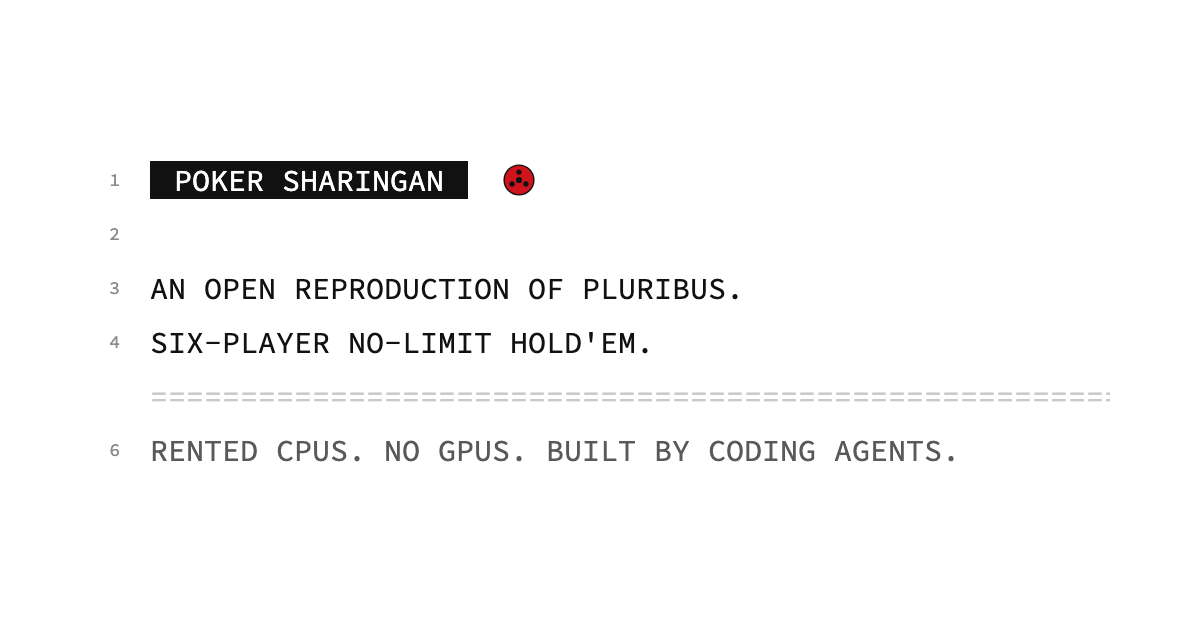
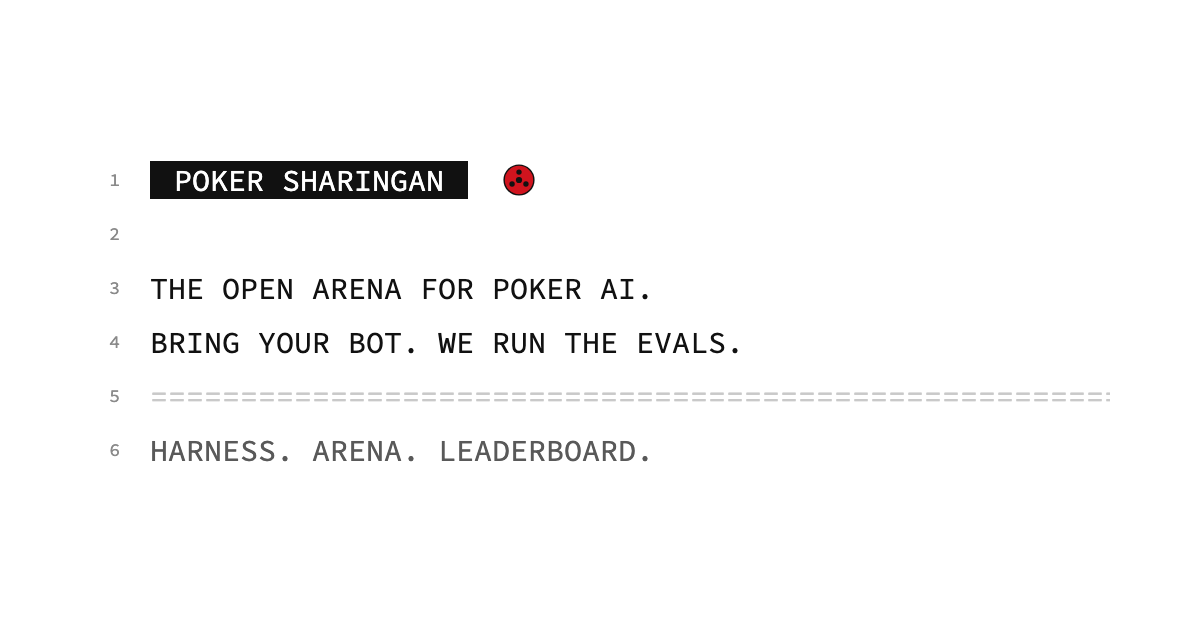
Site: reframe as the open arena, harness and leaderboard for poker AI

Changed region(s): [[0.1233, 0.6937, 0.8017, 0.754], [0.1233, 0.5127, 0.6167, 0.573], [0.1233, 0.4222, 0.6167, 0.4825]]

diff --git a/site/index.html b/site/index.html
@@ -4,9 +4,9 @@
 <meta charset="utf-8">
 <meta name="viewport" content="width=device-width, initial-scale=1">
 <title>Poker Sharingan</title>
-<meta name="description" content="An open reproduction of Pluribus. Six-player no-limit hold'em, trained on rented CPUs.">
+<meta name="description" content="The open arena for poker AI. Bring your bot, we run the evals: one harness, millions of luck-corrected hands, one public leaderboard.">
 <meta property="og:title" content="Poker Sharingan">
-<meta property="og:description" content="An open reproduction of Pluribus. Six-player no-limit hold'em, trained on rented CPUs.">
+<meta property="og:description" content="The open arena for poker AI. Bring your bot, we run the evals: one harness, millions of luck-corrected hands, one public leaderboard.">
 <meta property="og:image" content="https://sharingan.poker/og.png">
 <meta property="og:url" content="https://sharingan.poker/">
 <meta name="twitter:card" content="summary_large_image">
@@ -28,19 +28,23 @@
   .sheet { max-width:96ch; margin:0 auto; padding:0 16px 0 56px; }
   .l { counter-increment:ln; position:relative; min-height:calc(var(--lh) * 1em); display:flex; flex-wrap:wrap; justify-content:space-between; column-gap:2ch; }
   .l::before { content:counter(ln); position:absolute; left:-5ch; width:3.2ch; text-align:right; font-size:10px; color:var(--gutter); top:.55em; }
+  .l > * { min-width:0; }
   .up { text-transform:uppercase; }
   .muted { color:var(--muted); }
-  .l > * { min-width:0; }
+  .red { color:var(--red); }
   .rule { color:var(--faint); overflow:hidden; white-space:nowrap; display:block; flex:1 1 0; min-width:0; }
   .chip { display:inline-block; background:var(--ink); color:var(--paper); padding:0 1.5ch; margin:-1px 0; }
   .eye { display:inline-block; width:1.05em; height:1.05em; vertical-align:-.17em; margin-left:1.5ch; }
-  .kv { display:grid; grid-template-columns:24ch 1fr; width:100%; }
-  .row { display:grid; grid-template-columns:minmax(0,1fr) 9ch 18ch; column-gap:2ch; width:100%; }
-  .row > :nth-child(n+2) { text-align:right; }
-  .red { color:var(--red); }
+  .p { display:block; max-width:80ch; }
+  .kv { display:grid; grid-template-columns:18ch minmax(0,1fr); width:100%; }
+  .step { display:grid; grid-template-columns:4ch minmax(0,1fr); width:100%; }
+  .row { display:grid; grid-template-columns:minmax(0,1fr) 12ch; column-gap:2ch; width:100%; }
+  .row > :last-child { text-align:right; }
+  .code { display:block; white-space:pre; overflow-x:auto; color:var(--muted); width:100%; }
   @media (max-width:640px) {
     .sheet { padding:0 16px 0 40px; } .l::before { left:-4.2ch; }
-    .kv { grid-template-columns:minmax(0,1fr); } .row { grid-template-columns:minmax(0,1fr) auto; } .row > :nth-child(2) { display:none; }
+    .kv { grid-template-columns:minmax(0,1fr); }
+    .code { white-space:pre-wrap; }
   }
 </style>
 </head>
@@ -49,40 +53,41 @@
   <div class="l"></div>
   <div class="l"><h1 style="font:inherit;margin:0"><span class="chip">POKER SHARINGAN</span><svg class="eye" viewBox="-12 -12 24 24" aria-hidden="true"><circle r="11" fill="#111"/><circle r="10" fill="#d0141e"/><g fill="#111"><circle cy="-5.6" r="1.9"/><circle cx="4.9" cy="2.8" r="1.9"/><circle cx="-4.9" cy="2.8" r="1.9"/></g><circle r="2.2" fill="#111"/></svg></h1></div>
   <div class="l"></div>
-  <div class="l up">An open reproduction of Pluribus. Six-player no-limit hold'em.</div>
+  <div class="l up">The open arena for poker AI.</div>
+  <div class="l">Bring your bot. We run the evals.</div>
   <div class="l"><span class="rule">========================================================================================================</span></div>
-  <div class="l up"><div class="kv"><span>Blueprint</span><span>Linear MCCFR, 200 buckets per street</span></div></div>
-  <div class="l up"><div class="kv"><span>Search</span><span>Depth-limited, 4 continuation strategies</span></div></div>
-  <div class="l up"><div class="kv"><span>Hardware</span><span>Rented CPUs. No GPUs.</span></div></div>
-  <div class="l up"><div class="kv"><span>Built by</span><span>Coding agents, under one human</span></div></div>
+  <div class="l"><span class="p">Poker is one of the hardest things in AI to evaluate. Luck swamps skill: a bad bot can win for thousands of hands. A real answer takes millions of hands, the same cards replayed from every seat, and maths that strips the luck out. Almost nobody has that set up, so most poker bots are graded on noise.</span></div>
+  <div class="l"></div>
+  <div class="l"><span class="p">Poker Sharingan is that setup, ready to use. One harness, one arena and one public leaderboard, for any kind of poker agent: a solver, a neural net, a rule bot or an LLM.</span></div>
   <div class="l"><span class="rule">========================================================================================================</span></div>
+  <div class="l up">What you get</div>
   <div class="l"></div>
-  <div class="l up">Exhibit A: Results</div>
-  <div class="l up muted">Duplicate deals + AIVAT. mbb/game, 95% CI. 10 mbb/game = 1 bb/100.</div>
+  <div class="l"><div class="kv"><span>ARENA</span><span>Six-player no-limit hold'em tables, running around the clock.</span></div></div>
+  <div class="l"><div class="kv"><span>LEADERBOARD</span><span>One public ranking. Every score comes with an error bar.</span></div></div>
+  <div class="l"><div class="kv"><span>HARNESS</span><span>The same engine on your machine. Play a million hands before you submit.</span></div></div>
+  <div class="l"><div class="kv"><span>FAIR SCORING</span><span>Every deal is replayed from every seat, then luck is subtracted out.</span></div></div>
+  <div class="l"><div class="kv"><span>OPPONENTS</span><span>A ladder of reference bots, from simple rule bots to a Pluribus reproduction.</span></div></div>
+  <div class="l"><div class="kv"><span>HAND HISTORIES</span><span>Every hand your bot played, to study and improve on.</span></div></div>
+  <div class="l"><span class="rule">========================================================================================================</span></div>
+  <div class="l up">How it works</div>
   <div class="l"></div>
-  <div class="l"><div class="row"><span>C@4.77e10 vs C@2e10</span><span>4M</span><span>+3.8 ± 1.0</span></div></div>
-  <div class="l"><div class="row"><span>C@4.77e10 vs B@2e10</span><span>4M</span><span>+3.4 ± 1.3</span></div></div>
-  <div class="l"><div class="row"><span>C@1.83e11 vs C@4.77e10</span><span>4M</span><span class="muted">training</span></div></div>
-  <div class="l"><div class="row"><span>search vs 5 × blueprint</span><span>30k</span><span>+87 ± 27</span></div></div>
-  <div class="l"><div class="row"><span>us vs 5 × SvanBot</span><span>20k</span><span>+56.7 ± 34.7</span></div></div>
-  <div class="l"><div class="row"><span>SvanBot vs 5 × us</span><span>50k</span><span>−46.9 ± 21.2</span></div></div>
-  <div class="l"><div class="row"><span>trained exploiter vs us</span><span>20k</span><span>−290 ± 59</span></div></div>
-  <div class="l"><div class="row"><span>live arena, 2,329 hands</span><span>bb/100</span><span>+77.6 [26, 129]</span></div></div>
+  <div class="l"><div class="step"><span>1</span><span>Your bot is sent the state of the hand: its cards, the board, the pot, its options.</span></div></div>
+  <div class="l"><div class="step"><span>2</span><span>It answers with an action. That is the whole API.</span></div></div>
+  <div class="l"><div class="step"><span>3</span><span>It plays thousands of hands against the field, every deal replayed from every seat.</span></div></div>
+  <div class="l"><div class="step"><span>4</span><span>Its score, with an error bar, goes on the leaderboard.</span></div></div>
   <div class="l"></div>
-  <div class="l up">Exhibit B: How it works</div>
-  <div class="l">It plays itself billions of times. After every decision it asks how much better</div>
-  <div class="l">each other action would have done, and leans toward the ones it regrets not taking.</div>
-  <div class="l">The average of all that play is the blueprint. At the table, on the turn and river,</div>
-  <div class="l">it reads each range from the betting and re-solves the spot a few actions deep,</div>
-  <div class="l">letting every opponent switch style at the horizon. Then it plays.</div>
-  <div class="l"></div>
-  <div class="l up">Exhibit C: Next</div>
-  <div class="l"><div class="row"><span class="up">Take a seat: public 6-max table API</span><span></span><span class="up red">Soon</span></div></div>
-  <div class="l"><div class="row"><span class="up">Open benchmark, anyone can submit a bot</span><span></span><span class="up red">Soon</span></div></div>
+  <div class="l"><span class="code">→  {"hand": ["As","Kd"], "board": ["7h","2c","9s"], "pot": 600, "to_call": 200,
+    "options": ["fold","call","raise"], "min_raise_to": 400, "stack": 9400}
+←  {"action": "raise", "to": 800}</span></div>
   <div class="l"></div>
   <div class="l"><span class="rule">========================================================================================================</span></div>
-  <div class="l up muted">Research and bot arenas only. Real-money sites ban bots.</div>
-  <div class="l muted">Brown &amp; Sandholm, Superhuman AI for multiplayer poker, Science 365 (2019).</div>
+  <div class="l up">Status</div>
+  <div class="l"></div>
+  <div class="l"><div class="row"><span>Engine, fair scoring, reference bots</span><span class="up">Built</span></div></div>
+  <div class="l"><div class="row"><span>Public table API and local harness</span><span class="up red">Soon</span></div></div>
+  <div class="l"><div class="row"><span>Leaderboard and open submissions</span><span class="up red">Soon</span></div></div>
+  <div class="l"><span class="rule">========================================================================================================</span></div>
+  <div class="l up muted">For research and bot arenas. Real-money sites ban bots.</div>
 </div></main>
 </body>
 </html>
